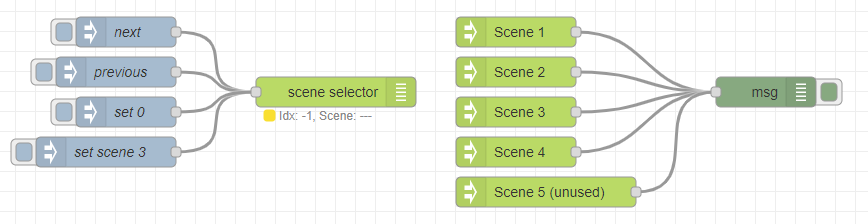
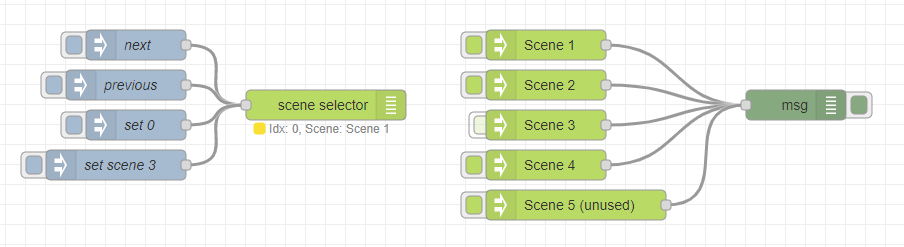
added button to the scene-in node to activate/deactivate the node

Changed region(s): [[0.0, 0.0625, 0.9954, 0.9375]]

diff --git a/src/scenes.js b/src/scenes.js
@@ -1,24 +1,33 @@
 module.exports = function (RED) {
 
-    function triggerScene(scene, msg) {
+    function getSceneInNodes(scene) {
+        var nodes = [];
         RED.nodes.eachNode(n => {
             try {
                 if (n.type === "scene-in" && n.scene === scene) {
-                    RED.nodes.getNode(n.id).trigger(msg);
+                    nodes.push(RED.nodes.getNode(n.id));
                 }
             } catch (err) {
                 console.log(err);
             }
         });
+
+        return nodes;
     }
 
     function sceneIn(config) {
         RED.nodes.createNode(this, config);
         var node = this;
 
+        this.isActive = function () {
+            return config.active;
+        }
+
         this.trigger = function (msg) {
-            msg.scene = config.scene;
-            node.send(msg);
+            if (config.active === true) {
+                msg.scene = config.scene;
+                node.send(msg);
+            }
         }
     }
     RED.nodes.registerType("scene-in", sceneIn);
@@ -48,7 +57,14 @@ module.exports = function (RED) {
         var index = nodeContext.get("index");
         setState(index);
 
-        node.on('input', function (msg) {
+        node.on('input',msg => handleMessage(msg, 0));
+
+        function handleMessage(msg, revCount) {
+            if(revCount >= config.scenes.length ){
+                node.error("All configured scenes are inactive");
+                return;
+            }
+            revCount++;
             var command = msg.command;
             if (!command) {
                 return;
@@ -59,6 +75,7 @@ module.exports = function (RED) {
                     index++;
                     break;
                 case "previous":
+                case "prev":
                     index--;
                     break;
                 case "set":
@@ -77,6 +94,7 @@ module.exports = function (RED) {
                     break;
                 default:
                     node.error("Command not found");
+                    return;
                     break;
             }
 
@@ -91,13 +109,27 @@ module.exports = function (RED) {
                 }
             }
 
-            if (!config.changedOutputOnly || nodeContext.get("index") != index) {
-                nodeContext.set("index", index);
+            if (config.changedOutputOnly === false || nodeContext.get("index") != index) {
+                var nodes = getSceneInNodes(config.scenes[index]).filter(n => n.isActive());
+
+                if (nodes.length === 0) {
+                    if (command === "next" || command === "previous") {
+                        handleMessage(msg, revCount);
+                    } else {
+                        node.error(`No active node for scene "${config.scenes[index]}" found.`);
+                        return;
+                    }
+                }
+
                 msg.command = undefined;
-                triggerScene(config.scenes[index], msg);
+                nodes.forEach(n => {
+                    n.trigger(msg);
+                });
+
+                nodeContext.set("index", index);
                 setState(index);
             }
-        });
+        }
     }
     RED.nodes.registerType("scene-selector", sceneSelector);
 }

diff --git a/src/scenes.html b/src/scenes.html
@@ -6,6 +6,32 @@
         defaults: {
             name: { value: "" },
             scene: { value: "", required: true },
+            active: { value: true }
+        },
+        button: {
+            toggle: "active",
+            onclick: function () {
+                var label = this.name || this.scene || "scene in";
+                var node = this;
+                node.dirty = true;
+                node.changed = true;
+
+                RED.nodes.dirty(true);
+                RED.history.push({
+                    t: 'edit',
+                    node: node,
+                    changes: {
+                        active: !node.active
+                    },
+                    dirty: node.dirty,
+                    changed: node.changed,
+                    callback: function (ev) {
+                        activateAjaxCall(ev.node, ev.node.active);
+                    }
+                });
+
+                RED.view.redraw();
+            }
         },
         inputs: 0,
         outputs: 1,
